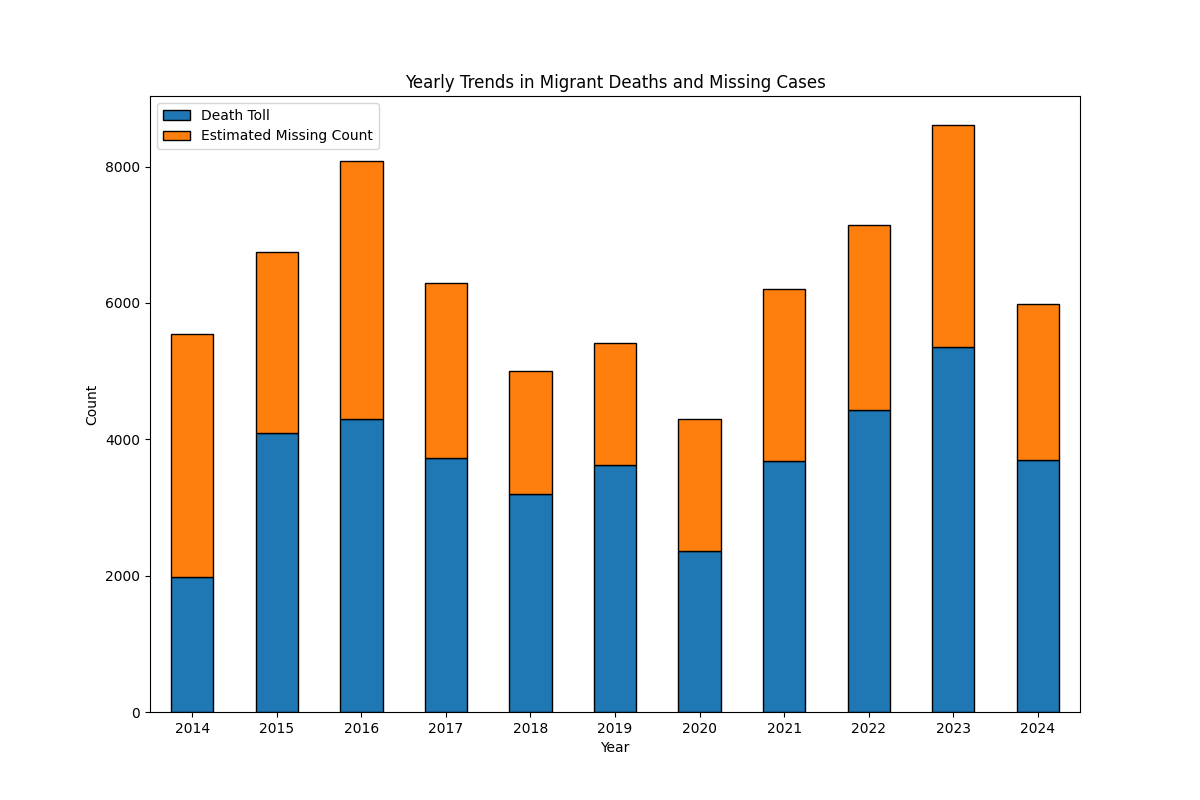
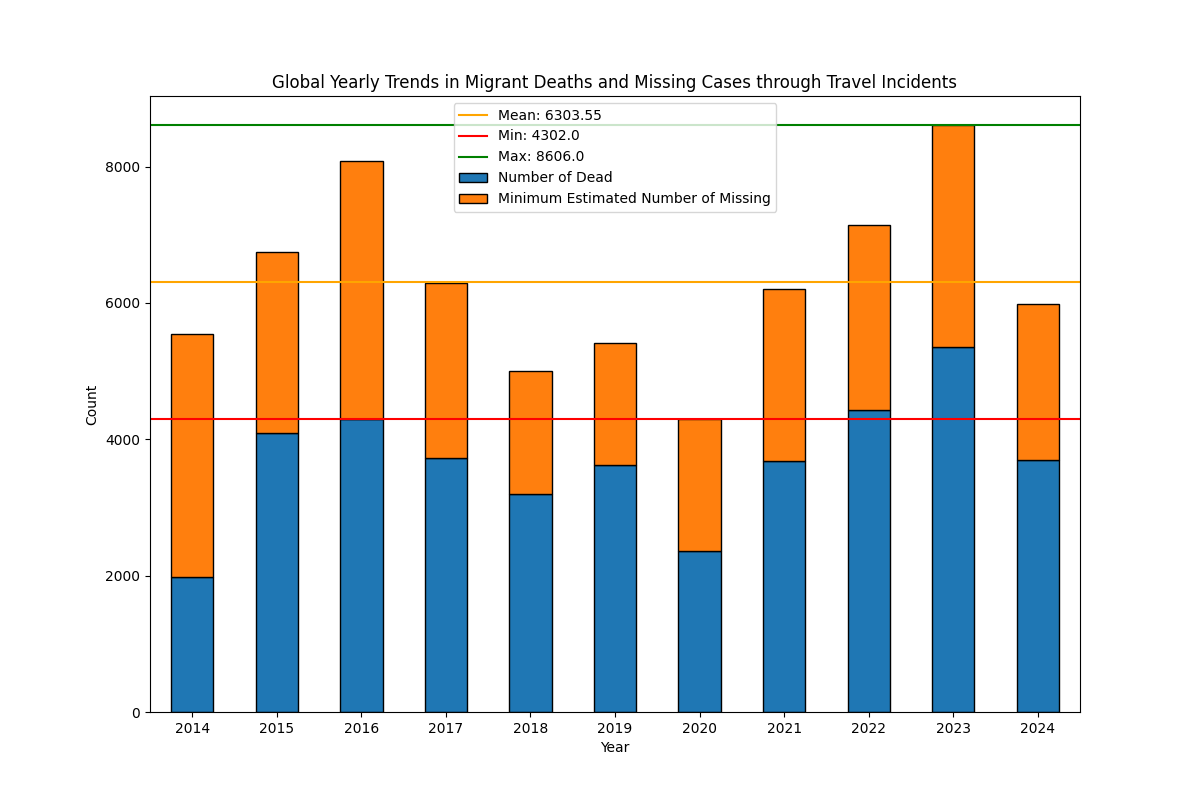
Created monthly visualisation and additional tests

Changed region(s): [[0.1233, 0.0938, 0.8017, 0.2812]]

diff --git a/data_analysis.py b/data_analysis.py
@@ -3,48 +3,103 @@ import pandas as pd
 import matplotlib.pyplot as plt
 
 # Function to clean the data
-def cleaning_data():
+def cleaning_data():    
     # Reading the dataset
     data = pd.read_csv('Missing_Migrants_Global_Figures_allData.csv')
 
-    # Columns dropping
-    unwanted_columns = ['Main ID', 'Incident ID', 'UNSD Geographical Grouping', 'URL', 'Source Quality', 'Information Source']
-    data = data.drop(columns=unwanted_columns)
+    # Keep only required columns
+    required_columns = [
+        'Incident Type', 'Incident Year', 'Month', 'Region of Origin', 'Region of Incident',
+        'Country of Origin', 'Number of Dead', 'Minimum Estimated Number of Missing',
+        'Total Number of Dead and Missing', 'Number of Survivors', 'Number of Females',
+        'Number of Males', 'Number of Children', 'Cause of Death', 'Migration Route',
+        'Location of Incident', 'Coordinates', 'UNSD Geographical Grouping'
+    ]
+    
 
-    # Columns renaming
-    columns_names = {
-        'Region of Incident': 'Incident Region',
-        'Date of Incident': 'Incident Date',
-        'Year of Incident': 'Incident Year',
-        'Number of Dead': 'Death Toll',
-        'Minimum Estimated Number of Missing': 'Estimated Missing Count',
-        'Total Number of Dead and Missing': 'Total Missing and Dead',
-        'Number of Survivors': 'Survivors Count',
-        'Number of Females': 'Females Count',
-        'Number of Males': 'Males Count',
-        'Number of Children': 'Children Count',
-        'Country of Origin': 'Origin Country',
-        'Region of Origin': 'Origin Region',
-        'Country of Incident': 'Incident Country',
-        'Location of Death': 'Incident Location',
-    }
-    data.rename(columns=columns_names, inplace=True)
+    data = data[required_columns]
 
-    # Set Null to 0 for death toll
-    data['Death Toll'] = data['Death Toll'].fillna(0)
 
+    # Handle missing values
+    
+    data['Number of Dead'] = data['Number of Dead'].fillna(0)
+    data['Minimum Estimated Number of Missing'] = data['Minimum Estimated Number of Missing'].fillna(0)
+    data['Total Number of Dead and Missing'] = data['Total Number of Dead and Missing'].fillna(0)
+    data['Number of Survivors'] = data['Number of Survivors'].fillna(0)
+    data['Number of Females'] = data['Number of Females'].fillna(0)
+    data['Number of Males'] = data['Number of Males'].fillna(0)
+    data['Number of Children'] = data['Number of Children'].fillna(0)
+
+    data['Region of Origin'] = data['Region of Origin'].fillna('Unknown')
+    data['Country of Origin'] = data['Country of Origin'].fillna('Unknown')
+    data['Migration Route'] = data['Migration Route'].fillna('Unknown')
+    data['Cause of Death'] = data['Cause of Death'].fillna('Unknown')
+
+    data = data.dropna()
+
+    print("Shape of the data:", data.shape)    
+    print("Number of missing values in each column:\n", data.isnull().sum())
+    
     return data
 
 data = cleaning_data()
 
-#Visualisations
 
-# Yearly Trends in Migrant Deaths and Missing Cases
-yearly = data.groupby('Incident Year')[['Death Toll', 'Estimated Missing Count',]].sum()
+# Visualisations
+
+# 1. Global Yearly Trends in Migrant Deaths and Missing Cases through Travel Incidents
+yearly = data.groupby('Incident Year')[['Number of Dead', 'Minimum Estimated Number of Missing']].sum()
 yearly.plot(kind='bar', figsize=(12, 8), stacked=True, edgecolor='black')
-plt.title('Yearly Trends in Migrant Deaths and Missing Cases')
+plt.title('Global Yearly Trends in Migrant Deaths and Missing Cases through Travel Incidents')
 plt.ylabel('Count')
 plt.xlabel('Year')
 plt.xticks(rotation=0)
-plt.legend(loc="upper left")
+
+missing_dead_yearly = yearly['Number of Dead'] + yearly['Minimum Estimated Number of Missing']
+mean_value = missing_dead_yearly.mean()
+min_value = missing_dead_yearly.min()
+max_value = missing_dead_yearly.max()
+
+plt.axhline(y=mean_value, color='orange', linestyle='-', linewidth=1.5, label="Mean: " + str(round(mean_value, 2)))
+plt.axhline(y=min_value, color='red', linestyle='-', linewidth=1.5, label="Min: " + str(min_value))
+plt.axhline(y=max_value, color='green', linestyle='-', linewidth=1.5, label="Max: " + str(max_value))
+
+plt.legend(loc="upper center")
 plt.savefig('Visualisations/yearly_trends.png')
+plt.clf()
+
+
+# 2. Global Count of Migrant Travel incidents by Month
+monthly = data['Month'].value_counts(sort=False)
+monthly.plot(kind='line', marker='o', figsize=(12, 8), color='darkblue')
+plt.title('Global Count of Migrant Travel Incidents by Month')
+plt.ylabel('Number of Incidents')
+plt.xlabel('Month')
+plt.xticks(range(len(monthly)), labels=monthly.index, rotation=0)  
+plt.grid(alpha=0.5)
+plt.tight_layout()
+
+mean_value = monthly.mean()
+min_value = monthly.min()
+max_value = monthly.max()
+
+plt.axhline(y=mean_value, color='orange', linestyle='-', linewidth=1.5, label="Mean: " + str(round(mean_value, 2)))
+plt.axhline(y=min_value, color='red', linestyle='-', linewidth=1.5, label="Min: " + str(min_value))
+plt.axhline(y=max_value, color='green', linestyle='-', linewidth=1.5, label="Max: " + str(max_value))
+
+plt.legend(loc="upper left")
+plt.savefig('Visualisations/monthly_trends.png')
+plt.clf()
+
+
+
+# Text file containing .describe() for each visualization
+with open('Visualisations/Statistics.txt', 'w') as file:
+    
+    file.write("Visualisation 1: Yearly Trends in Migrant Deaths and Missing Cases\n")
+    file.write(yearly.describe().to_string())
+    file.write("\n\n")
+
+    file.write("Visualisation 2: Count of Incidents by Month\n")
+    file.write(monthly.describe().to_string())
+    file.write("\n\n")

diff --git a/tests/test_data_cleaning.py b/tests/test_data_cleaning.py
@@ -1,61 +1,63 @@
 import pandas as pd
 
 def load_cleaned_data():
+    # Function to clean the data
     
-    # Load and clean the dataset
-    
+    # Reading the dataset
     data = pd.read_csv('Missing_Migrants_Global_Figures_allData.csv')
 
-    # Drop unwanted columns
-    unwanted_columns = ['Main ID', 'Incident ID', 'UNSD Geographical Grouping', 'URL', 'Source Quality', 'Information Source']
-    data = data.drop(columns=unwanted_columns)
+    # Keep only required columns
+    required_columns = [
+        'Incident Type', 'Incident Year', 'Month', 'Region of Origin', 'Region of Incident',
+        'Country of Origin', 'Number of Dead', 'Minimum Estimated Number of Missing',
+        'Total Number of Dead and Missing', 'Number of Survivors', 'Number of Females',
+        'Number of Males', 'Number of Children', 'Cause of Death', 'Migration Route',
+        'Location of Incident', 'Coordinates', 'UNSD Geographical Grouping'
+    ]
 
-    # Rename columns
-    columns_names = {
-        'Region of Incident': 'Incident Region',
-        'Date of Incident': 'Incident Date',
-        'Year of Incident': 'Incident Year',
-        'Number of Dead': 'Death Toll',
-        'Minimum Estimated Number of Missing': 'Estimated Missing Count',
-        'Total Number of Dead and Missing': 'Total Missing and Dead',
-        'Number of Survivors': 'Survivors Count',
-        'Number of Females': 'Females Count',
-        'Number of Males': 'Males Count',
-        'Number of Children': 'Children Count',
-        'Country of Origin': 'Origin Country',
-        'Region of Origin': 'Origin Region',
-        'Country of Incident': 'Incident Country',
-        'Location of Death': 'Incident Location',
-    }
-    data.rename(columns=columns_names, inplace=True)
+    data = data[required_columns]
 
-    # Set Null to 0 for death count
-    data['Death Toll'] = data['Death Toll'].fillna(0)
 
-    print(list(data.columns))  # Add this line to inspect the actual column names
+    # Handle missing values
+    
+    data['Number of Dead'] = data['Number of Dead'].fillna(0)
+    data['Minimum Estimated Number of Missing'] = data['Minimum Estimated Number of Missing'].fillna(0)
+    data['Total Number of Dead and Missing'] = data['Total Number of Dead and Missing'].fillna(0)
+    data['Number of Survivors'] = data['Number of Survivors'].fillna(0)
+    data['Number of Females'] = data['Number of Females'].fillna(0)
+    data['Number of Males'] = data['Number of Males'].fillna(0)
+    data['Number of Children'] = data['Number of Children'].fillna(0)
 
+    data['Region of Origin'] = data['Region of Origin'].fillna('Unknown')
+    data['Country of Origin'] = data['Country of Origin'].fillna('Unknown')
+    data['Migration Route'] = data['Migration Route'].fillna('Unknown')
+    data['Cause of Death'] = data['Cause of Death'].fillna('Unknown')
+
+    data = data.dropna()
+
+    print("Shape of the data:", data.shape)    
+    print("Number of missing values in each column:\n", data.isnull().sum())
+    
     return data
 
 
-def test_unwanted_columns_removed():
-    # Test if unwanted columns are removed
-    data = load_cleaned_data()
-    unwanted_columns = ['Main ID', 'Incident ID', 'UNSD Geographical Grouping', 'URL', 'Source Quality', 'Information Source']
-    assert all(col not in data.columns for col in unwanted_columns), "Unwanted columns were not removed."
 
-def test_columns_renamed():
-    # Test if columns are renamed correctly
+def test_required_columns():
+    # Test if the required columns are present
     data = load_cleaned_data()
-    expected_columns = [
-        'Incident Type', 'Incident Region', 'Incident Date', 'Incident Year', 'Month',
-        'Death Toll', 'Estimated Missing Count', 'Total Missing and Dead',
-        'Survivors Count', 'Females Count', 'Males Count', 'Children Count',
-        'Origin Country', 'Origin Region', 'Cause of Death', 'Incident Country',
-        'Migration Route', 'Location of Incident', 'Coordinates'
+    required_columns = [
+        'Incident Type', 'Incident Year', 'Month', 'Region of Origin', 'Region of Incident',
+        'Country of Origin', 'Number of Dead', 'Minimum Estimated Number of Missing',
+        'Total Number of Dead and Missing', 'Number of Survivors', 'Number of Females',
+        'Number of Males', 'Number of Children', 'Cause of Death', 'Migration Route',
+        'Location of Incident', 'Coordinates', 'UNSD Geographical Grouping'
     ]
-    assert list(data.columns) == expected_columns, "Columns were not renamed correctly."
-    
-def test_death_toll_nulls_filled():
-    # Test if null values in death count are set to 0
+    for col in required_columns:
+        assert col in data.columns, "Required column '" + col + "' is missing."
+    for col in data.columns:
+        assert col in required_columns, "Unexpected column '" + col + "' is present."
+        
+def test_no_nulls():
+    # Test that no null values exist in the dataset
     data = load_cleaned_data()
-    assert data['Death Toll'].isnull().sum() == 0, "Null values in Death Toll were not replaced with 0."
+    assert data.isnull().sum().sum() == 0, "Null values are present in the dataset."

diff --git a/tests/test_monthly_trends.py b/tests/test_monthly_trends.py
@@ -41,18 +41,17 @@ def cleaning_data():
     
     return data
 
+# testing monthly trends visualisation
 
-# testing yearly trends visualisation
-
-def test_yearly_trends_visualisation():
+def test_monthly_trends_visualisation():
     
     # Load cleaned data
     
     data = cleaning_data()
-    grouped_data = data.groupby('Incident Year')[['Number of Dead', 'Minimum Estimated Number of Missing']].sum()
+    monthly = data['Month'].value_counts(sort=False)
     
     #  grouped data is not empty
-    assert len(grouped_data) > 0, "Grouped data is empty."
+    assert len(monthly) > 0, "Monthly data is empty."
 
     # Check if the file is created
-    assert os.path.exists('Visualisations/yearly_trends.png'), "The visualisation file 'yearly_trends.png' was not created."
+    assert os.path.exists('Visualisations/monthly_trends.png'), "The visualisation file was not created."

diff --git a/tests/test_statistics.py b/tests/test_statistics.py
@@ -1,0 +1,9 @@
+import os
+
+def test_statistics_file_creation():
+    # Check if file is created
+    assert os.path.exists('Visualisations/Statistics.txt'), "The file was not created."
+
+def test_statistics_file_not_empty():
+    # Check if file is not empty
+    assert os.path.getsize('Visualisations/Statistics.txt') > 0, "The file is empty."
